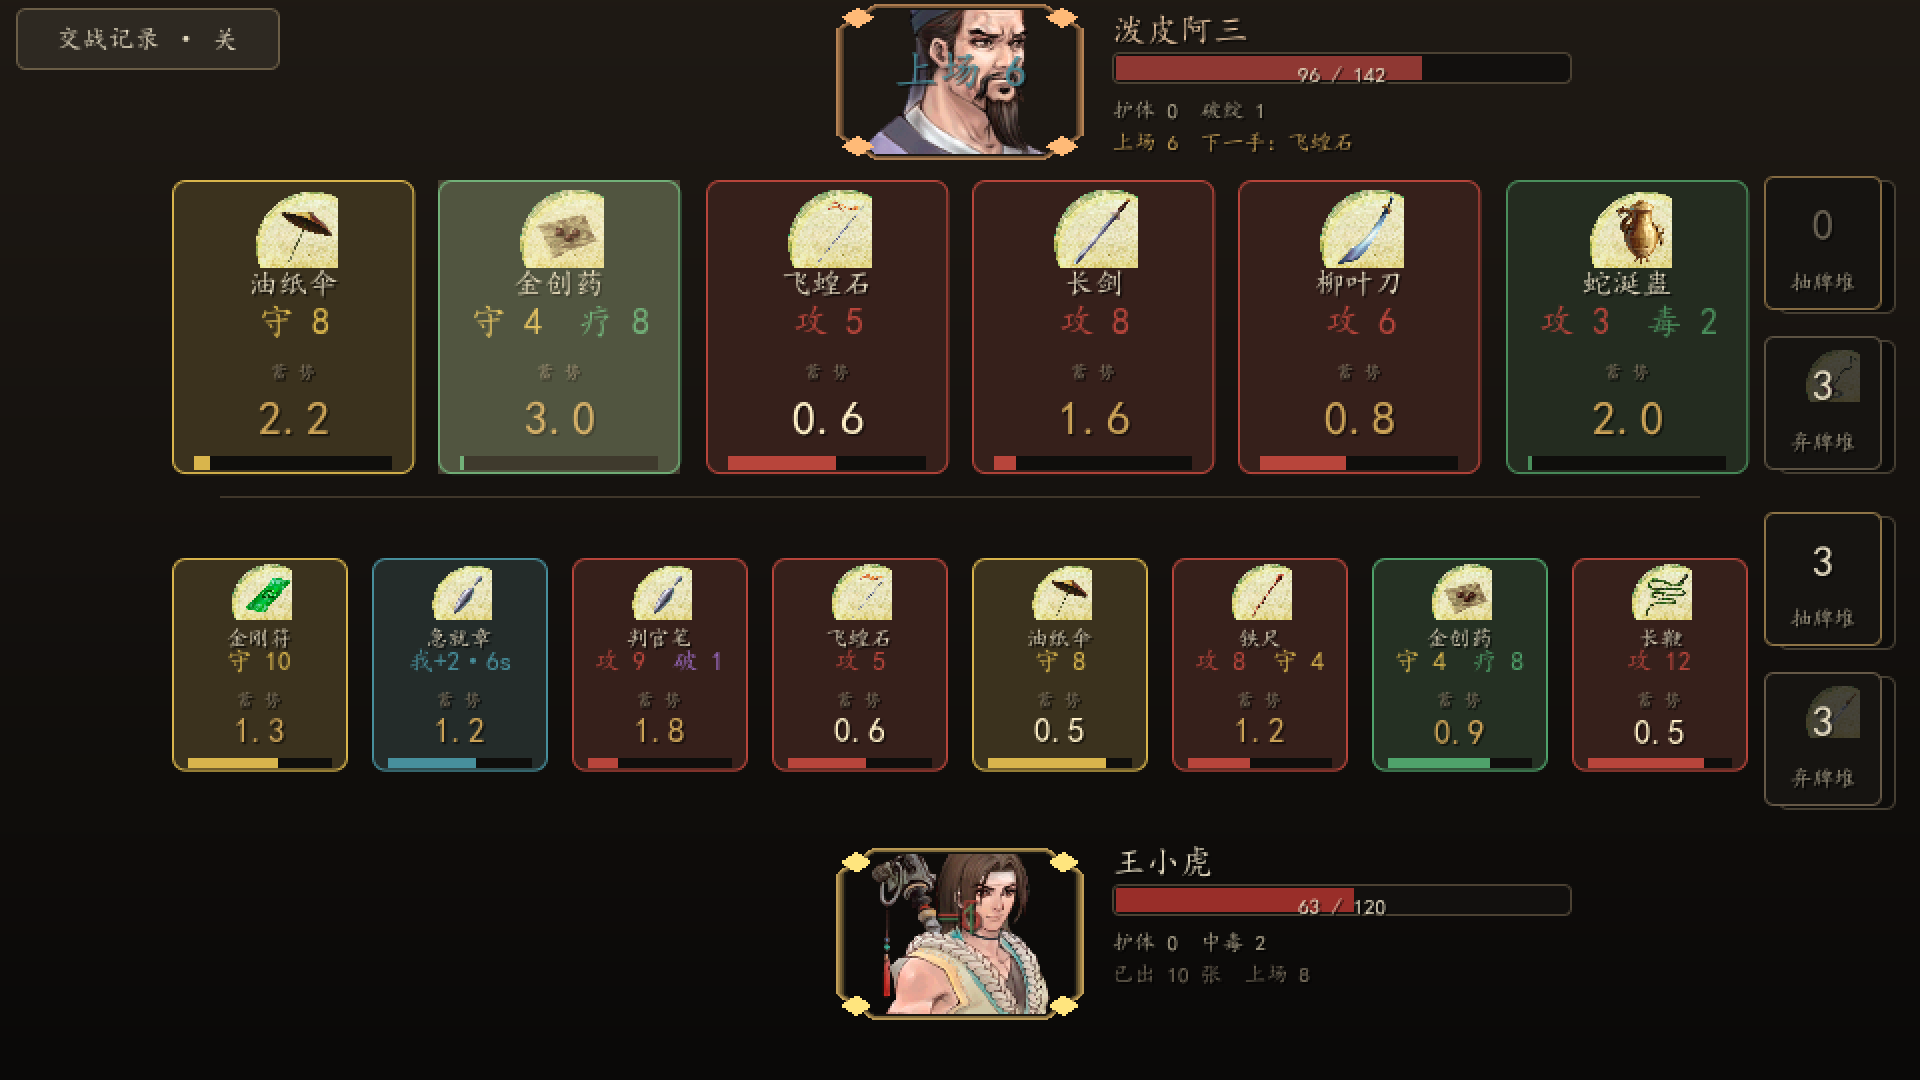
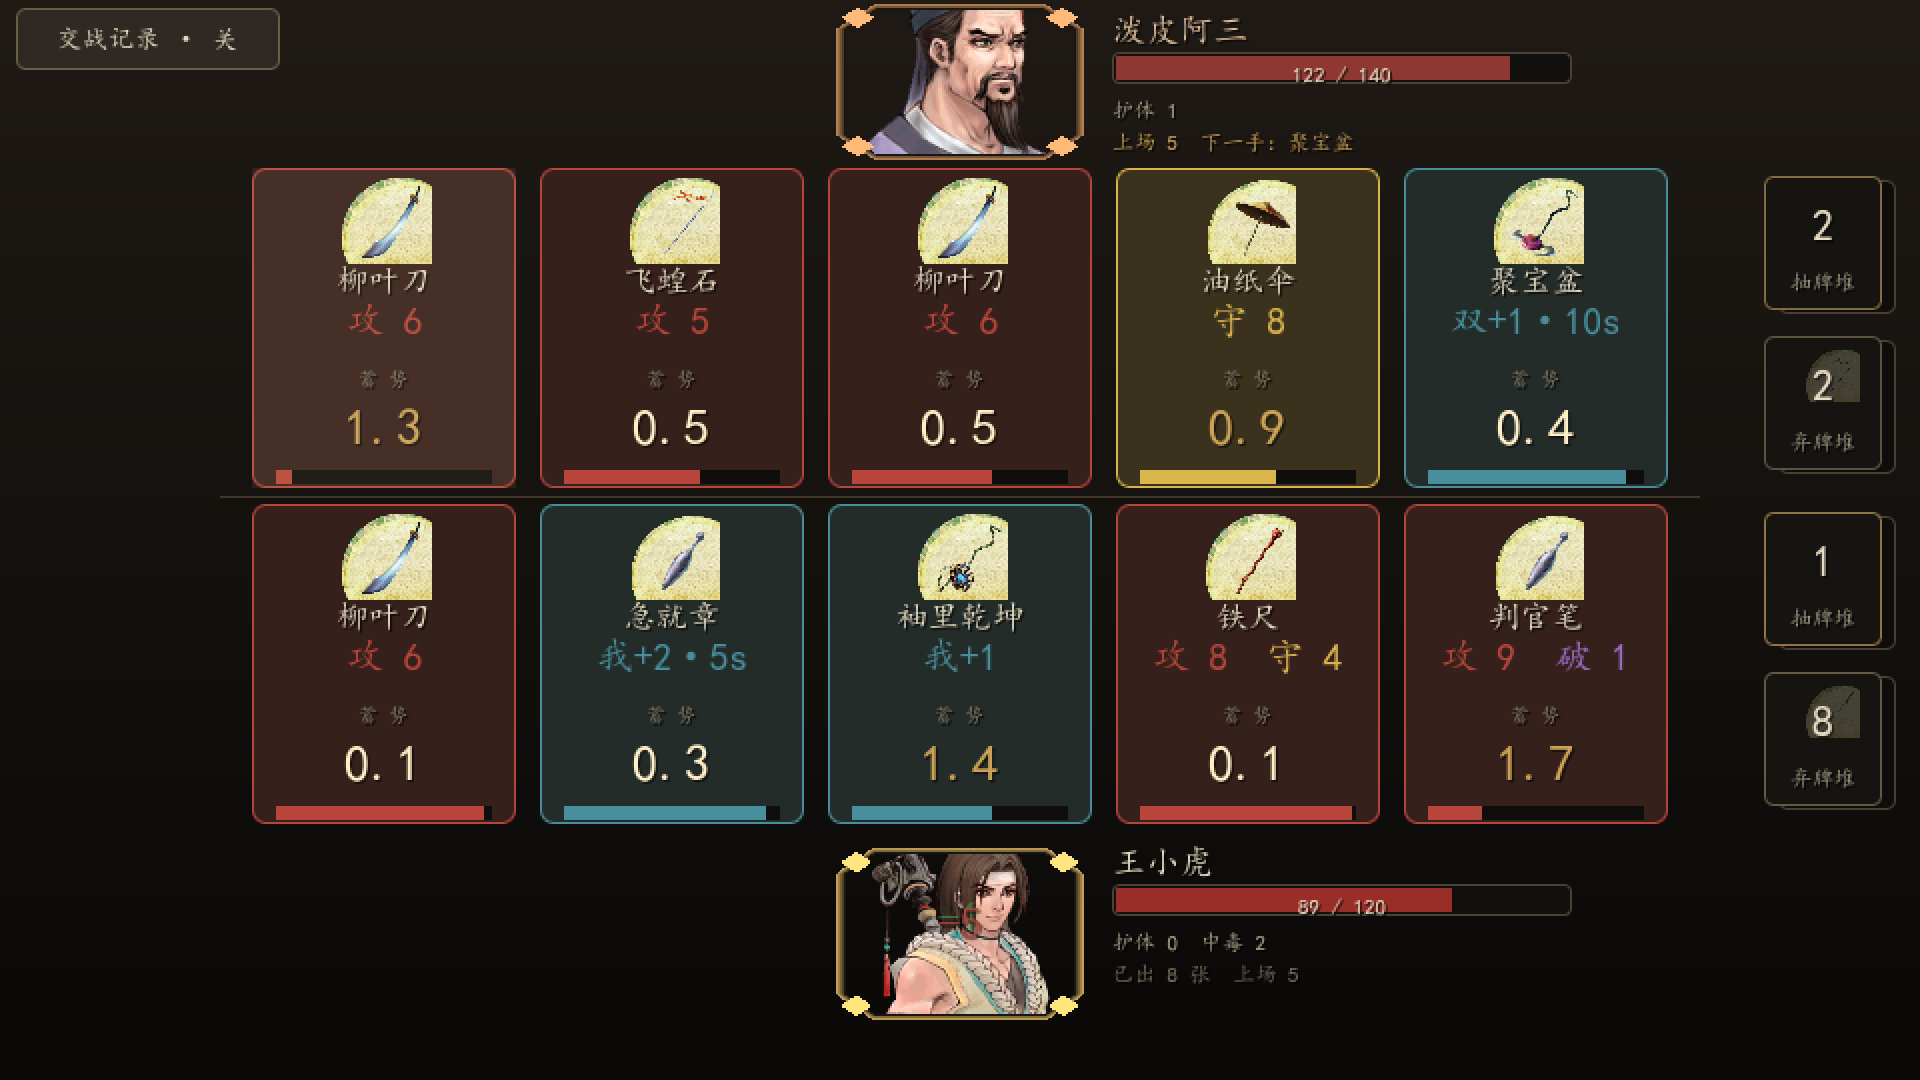
器物牌定价保守化；上场数到期改为本方出牌时才收
- 蓄势普遍拉长：乱神散 2.4→3.6、袖里乾坤 2.8→4.0、缚手咒 2.6→4.2、
  急就章 3.0→4.6、聚宝盆 3.2→4.8、分身符 3.4→5.2
- 定价规则：本场持续的比限时的慢，加得多的比加得少的慢
- 限时时长收紧：急就章 6→5s、乱神散 8→6s、聚宝盆 12→10s
- 到期不再立刻收回：先挂待收标记，本方打出下一张牌时才减；界面写（待收）/（出牌时收）
- 敌方气血 142→140，按新节奏重测并更新平衡表与已知问题

diff --git a/Scripts/Game/Battle/DeckBattle.cs b/Scripts/Game/Battle/DeckBattle.cs
@@ -121,6 +121,9 @@ public sealed class FighterState
     /// <summary>当前上场数（手牌槽位数）。基础 5，可被卡牌临时或本场改写。</summary>
     public int HandCapacity = DeckBattle.HandBase;
 
+    /// <summary>有限时上场加成已经到期、但还没收（等到本方打出下一张牌才收）。界面要提示这个状态。</summary>
+    public bool PendingHandRevert;
+
     /// <summary>实际参与推进的槽位数。</summary>
     public int ActiveSlots
     {
@@ -192,6 +195,9 @@ public sealed class DeckBattle
         public FighterState Target;
         public int Applied;
         public float Remain;
+
+        /// <summary>时间到了但还没收：等到本方打出下一张牌才真正减。</summary>
+        public bool Expired;
     }
 
     private readonly List<HandModifier> _handMods = new List<HandModifier>();
@@ -271,7 +277,7 @@ public sealed class DeckBattle
 
         Elapsed += dt;
 
-        TickHandMods(dt, events);
+        TickHandMods(dt);
         TickFighter(Player, Enemy, dt, events);
         TickFighter(Enemy, Player, dt, events);
 
@@ -291,21 +297,59 @@ public sealed class DeckBattle
         TickHand(owner, foe, dt, events);
     }
 
-    private void TickHandMods(float dt, List<BattleEvent> events)
+    private void TickHandMods(float dt)
     {
-        for (int i = _handMods.Count - 1; i >= 0; i--)
+        for (int i = 0; i < _handMods.Count; i++)
         {
             HandModifier mod = _handMods[i];
+            if (mod.Expired)
+            {
+                continue;
+            }
+
             mod.Remain -= dt;
             if (mod.Remain > 0f)
             {
                 continue;
             }
 
-            // 到期收回：只收回当初真正加上去的量（可能被上限截断过）
+            // 只标记到期，不动槽位：要等本方打出下一张牌才收（见 RevertExpiredMods）。
+            // 理由：一到期就把牌抽走，玩家会看到"我什么都还没干，位置就少了一个"，
+            // 手上那张刚要出手的牌也跟着消失，体验像是被系统抢了一下。
+            mod.Expired = true;
+            mod.Target.PendingHandRevert = true;
+        }
+    }
+
+    /// <summary>把本方已到期的限时加成收掉。只有在本方确实打出过牌之后才调用。</summary>
+    private void RevertExpiredMods(FighterState owner, List<BattleEvent> events)
+    {
+        for (int i = _handMods.Count - 1; i >= 0; i--)
+        {
+            HandModifier mod = _handMods[i];
+            if (mod.Target != owner || !mod.Expired)
+            {
+                continue;
+            }
+
+            // 只收回当初真正加上去的量（可能被上限截断过）
             ApplyCapacity(mod.Target, -mod.Applied, events, true);
             _handMods.RemoveAt(i);
         }
+
+        owner.PendingHandRevert = HasExpiredMod(owner);
+    }
+
+    private bool HasExpiredMod(FighterState owner)
+    {
+        for (int i = 0; i < _handMods.Count; i++)
+        {
+            if (_handMods[i].Target == owner && _handMods[i].Expired)
+            {
+                return true;
+            }
+        }
+        return false;
     }
 
     /// <summary>
@@ -410,6 +454,7 @@ public sealed class DeckBattle
 
     private void TickHand(FighterState owner, FighterState foe, float dt, List<BattleEvent> events)
     {
+        bool playedAny = false;
         int activeSlots = owner.ActiveSlots;
         for (int slot = 0; slot < activeSlots; slot++)
         {
@@ -438,7 +483,14 @@ public sealed class DeckBattle
                 owner.Stats.FirstPlayAt = Elapsed;
             }
 
+            playedAny = true;
+
             DrawInto(owner, slot, events);
+        }
+
+        if (playedAny)
+        {
+            RevertExpiredMods(owner, events);
         }
     }
 
@@ -523,6 +575,11 @@ public sealed class DeckBattle
                 mod.Applied = applied;
                 mod.Remain = card.HandTime;
                 _handMods.Add(mod);
+            }
+            else if (applied > 0)
+            {
+                // 本场持续的加成把之前到期待收的状态盖过去了
+                owner.PendingHandRevert = HasExpiredMod(owner);
             }
         }
 

diff --git a/Scripts/Game/UI/BattlePanel.cs b/Scripts/Game/UI/BattlePanel.cs
@@ -987,11 +987,13 @@ public class BattlePanel : BasePanel
         _playerStatus.Text = BuildStatus(p);
         _enemyStatus.Text = BuildStatus(e);
 
-        _playerMeta.Text = "已出 " + p.Stats.Played + " 张　上场 " + p.ActiveSlots;
+        _playerMeta.Text = "已出 " + p.Stats.Played + " 张　上场 " + p.ActiveSlots +
+                           (p.PendingHandRevert ? "（出牌时收）" : "");
 
         CardConfig intent = _battle.EnemyFastestCard();
         string next = intent != null ? intent.Name : "—";
-        _enemyIntent.Text = "上场 " + e.ActiveSlots + "　下一手：" + next;
+        _enemyIntent.Text = "上场 " + e.ActiveSlots + (e.PendingHandRevert ? "（待收）" : "") +
+                            "　下一手：" + next;
 
         // 抽牌堆不露牌面（牌序由内核决定，露了就剧透）；弃牌堆露出最后进去那张
         _enemyDraw.SetPile("抽牌堆", e.DrawPile.Count, e.DrawPile, false, new Color(0.520f, 0.420f, 0.260f));

diff --git a/Docs/卡组战斗设计.md b/Docs/卡组战斗设计.md
@@ -115,25 +115,30 @@
 手牌槽位不是恒定的 5 个：**基础 5，上限 8，下限 1**。器物牌可以让它临时或本场变化，
 目标可以是自己、对方或双方。
 
-| 牌 | 效果 | 持续 |
-| --- | --- | --- |
-| 袖里乾坤 | 我 +1 | 本场 |
-| 缚手咒 | 敌 -1 | 本场 |
-| 分身符 | 双方 +1 | 本场 |
-| 急就章 | 我 +2 | 6 秒 |
-| 乱神散 | 敌 -1 | 8 秒 |
-| 聚宝盆 | 双方 +1 | 12 秒 |
+| 牌 | 效果 | 蓄势 | 持续 |
+| --- | --- | --- | --- |
+| 乱神散 | 敌 -1 | 3.6s | 6 秒 |
+| 袖里乾坤 | 我 +1 | 4.0s | 本场 |
+| 缚手咒 | 敌 -1 | 4.2s | 本场 |
+| 急就章 | 我 +2 | 4.6s | 5 秒 |
+| 聚宝盆 | 双方 +1 | 4.8s | 10 秒 |
+| 分身符 | 双方 +1 | 5.2s | 本场 |
+
+**为什么都这么慢**：槽位就是每秒出手次数，5→6 等于凭空 +20% 产能，比任何单张伤害牌都硬。
+所以定了两条定价规则：
+
+1. **本场持续的，比限时的慢**——一次投入打完全场，价值随战斗时长线性上涨。
+2. **加得多的，比加得少的慢**——`+2` 的急就章（4.6s）比 `+1` 的袖里乾坤（4.0s）慢；
+   同时影响双方的（分身符 5.2s）比只影响一边的慢。
 
 规则细节：
 
 - **加槽位**：新槽位立刻补抽一张（从抽牌堆，空则洗回弃牌堆）。
-- **减槽位**：被砍掉的槽位里的牌**进弃牌堆**，不是消失；手牌会变少，但牌没丢。
-- **限时**：到点把"当初真正加上去的量"原样收回（顶到上限时可能只加上 1，就只收回 1）。
-  记录里会单独写一行 `9.1s 敌 限时到期 → 上场 6`。
-- **同源相抵**：+1 和 -1 各自结算，谁先到期谁先收回，不做合并。
-
-> 为什么这个数值这么敏感：槽位 = 每秒出手次数。5→6 是 20% 的产能，
-> 比任何单张伤害牌都强。实测里敌我各拿一张上场牌，胜率能翻 40 个点（见第 8 节）。
+- **减槽位**：被砍掉的槽位里的牌**进弃牌堆**，不是消失。
+- **限时到期不立刻收**：时间到了先挂一个"待收"标记，**等这一方打出下一张牌时才真正减**。
+  理由是一到期就抽走牌，玩家会觉得"我什么都没干，位置就少了一个"，正要出手的那张牌也跟着没——
+  像被系统抢了一下。界面上会写 `上场 7（待收）`，收掉时记录写 `9.8s 你 限时到期 → 上场 6`。
+- **收回量按当时实际加上去的量**：顶到上限时只加了 1，就只收回 1。
 
 ## 5.2 牌池（36 张）
 
@@ -203,26 +208,31 @@
 
 ## 7. 实测平衡（30 场/套，`--sim=30`）
 
-敌方泼皮阿三：气血 142、9 张牌、带一张「聚宝盆」（双方 +1、12 秒）。
+敌方泼皮阿三：气血 140、9 张牌、带一张「聚宝盆」。
 
 | 侠客 | 胜率 | 均时 | 观察 |
 | --- | --- | --- | --- |
-| 王小虎 | 80% | 11.5s | 兵器连击，节奏最稳 |
-| 沈欺霜 | 97~100% | 24.8s | **过强**：护体 + 回复的总量超过敌方输出，变成打不死的木桩 |
-| 苏媚 | 97% | 10.4s | 蛊毒持续伤害绕开"一击必杀"的节奏 |
-| 李忆如 | 87% | 11.7s | 五灵轰炸，稳定 |
-| 李逍遥 | 57% | 10.6s | 纯快攻，血薄，最吃开局手牌 |
-| 阿奴 | 63% | 10.5s | 暗器先手，看脸 |
+| 王小虎 | 50% | 12.2s | 兵器连击，最接近基准 |
+| 沈欺霜 | 83% | 27.7s | 仍是过强：护体 + 回复总量超过敌方输出，靠拖赢 |
+| 苏媚 | 100% | 10.9s | **最强**：7 张蛊毒，持续伤害把护体磨完后还在流 |
+| 李忆如 | 57% | 12.7s | 五灵轰炸，平稳 |
+| 李逍遥 | 43% | 11.2s | 纯快攻血薄，开局手牌差就直接输 |
+| 阿奴 | 63% | 11.0s | 暗器先手，看脸 |
+
+**把器物牌拉慢之后的整体变化**：同一批牌组在上一版（器物 2.4~3.4s）平均胜率约 80%，
+现在 66%。掉得最多的是王小虎（80%→50%）和李忆如（87%→57%）——
+他们的高费回合本来能靠"多一个槽位"提前滚起来，现在要等到 4~5 秒才有，
+前半场就是实打实地少一张牌。
 
 **已知问题（比数字本身更重要）**：
 
-1. **只有 1 个敌人，所以"平衡"只有一个旋钮**。同一套牌把敌方气血从 142 调到 150，
-   胜率会从 80% 掉到 20%——这不是敏感，是"伤害竞赛"本身没有缓冲：
-   谁先打死谁在 1 秒内决定，气血压根不构成难度曲线。解法是做敌人梯队（第 8 节）。
-2. **沈欺霜的定位没有闭环**。"护体·反伤"里的反伤还没实装，她只能靠堆血拖时间；
-   在单敌人环境下这就必然过强。要么加反伤，要么给敌人破甲。
-3. **上场数牌强弱差异过大**。给敌方换成只帮自己的「袖里乾坤」，四套牌直接掉到 0~20%；
-   换成帮双方的「聚宝盆」，六套牌又全部回到 57% 以上。这个旋钮太硬，需要按场次分档。
+1. **只有 1 个敌人，所以"平衡"只有一个旋钮**。把敌方气血从 140 调到 150，
+   王小虎的胜率会从 80% 掉到 20%——这不是敏感，是"伤害竞赛"本身没有缓冲：
+   谁先打死谁在 1 秒内决定，气血不构成难度曲线。解法是敌人梯队。
+2. **沈欺霜的定位没有闭环**。"护体·反伤"只做了护体，没有反伤，她只能靠堆血拖时间。
+3. **蛊毒过强**。苏媚 100% 说明"层数 × 每秒"的线性模型在长战斗里必然碾压固定伤害，
+   要么给中毒设衰减，要么给敌人解毒。
+4. **上场数依然是硬旋钮**。给敌方换成只帮自己的「袖里乾坤」，四套牌直接掉到 0~20%。
 
 ## 8. 下一步（按价值排序）
 
